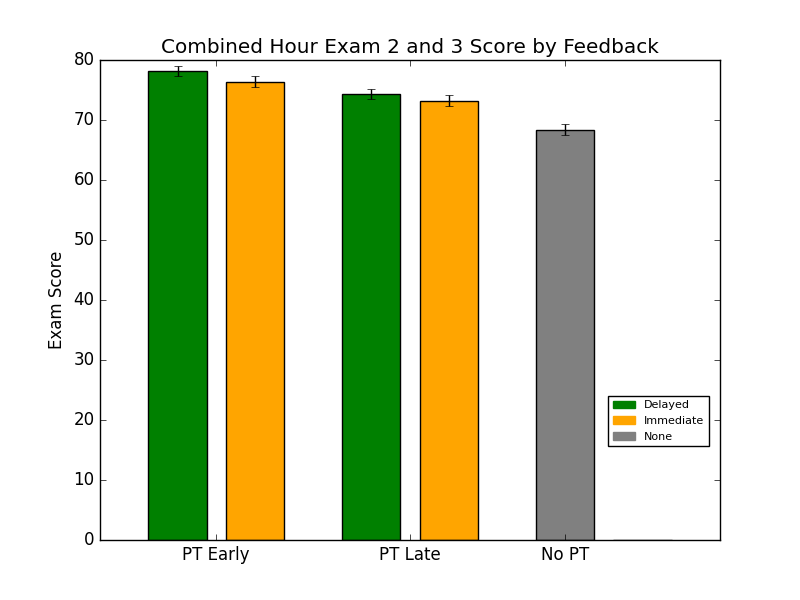
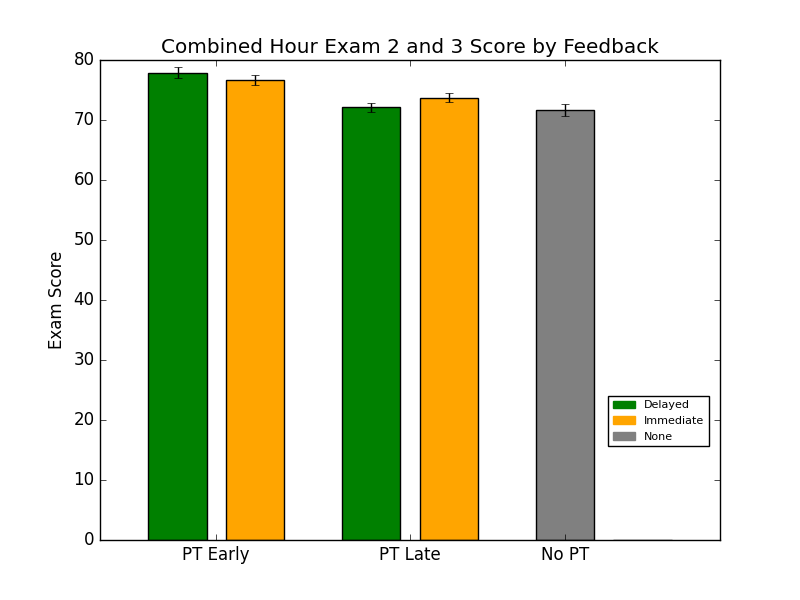
Altered hour exam graphs to new format

diff --git a/source/examscore.py b/source/examscore.py
@@ -27,19 +27,24 @@ def store_file_data(path): # Opens the CSV Data and Stores the Returns the Data 
 
 def parse_file(): # Dividing the Data into appropriate bins
 	for row in r_list:
-		if row[1] != "NULL" and row[1] != "EX": # Why are the EX's?
-			if row[8] == "NULL":
-				no_feedback_score.append(float(row[1]))
-			elif float(row[8]) <= early_time:
-				if int(row[5]) == 1:
-					delayed_feedback_early_score.append(float(row[1]))
-				else:
-					immediate_feeback_early_score.append(float(row[1]))
-			elif float(row[8]) < 0: # Sometimes students finish practice after exam time?
-				if int(row[5]) == 1:
-					delayed_feedback_late_score.append(float(row[1]))
-				else:
-					immediate_feeback_late_score.append(float(row[1]))
+		if row[5] == "NULL" or float(row[6]) == 0: # People who did not have any practice questions done
+			no_feedback_score.append(float(row[1]))
+		elif row[8] == "NULL" and float(row[6]) > 0: # People who did less than 20 questions late
+			if row[5] == "1":
+				delayed_feedback_late_score.append(float(row[1]))
+			else:
+				immediate_feeback_late_score.append(float(row[1]))
+		elif float(row[8]) <= early_time: # People who did 20 practice questions early
+			if row[5] == "1":
+				delayed_feedback_early_score.append(float(row[1]))
+			else:
+				immediate_feeback_early_score.append(float(row[1]))
+		elif float(row[8]) <= 0: # People who did 20 practice questions late
+			if row[5] == "1":
+				delayed_feedback_late_score.append(float(row[1]))
+			else:
+				immediate_feeback_late_score.append(float(row[1]))
+		# People who have questions done after the exam has finished are not included
 
 def draw_graph(name): # Drawing Hour Exam 2 Score by Feedback
 	# Calculating the Means
@@ -47,11 +52,11 @@ def draw_graph(name): # Drawing Hour Exam 2 Score by Feedback
 	immediate_means = [np.mean(immediate_feeback_early_score), np.mean(immediate_feeback_late_score)]
 	no_means = [np.mean(no_feedback_score)]
 
-	# print(delayed_means)
-	# print()
-	# print(immediate_means)
-	# print()
-	# print(no_means)
+	print(delayed_means)
+	print()
+	print(immediate_means)
+	print()
+	print(no_means)
 
 	# Calculating the Error Bars
 	delayed_errors = [stats.sem(delayed_feedback_early_score), stats.sem(delayed_feedback_late_score)]
@@ -77,7 +82,7 @@ def draw_graph(name): # Drawing Hour Exam 2 Score by Feedback
 	gray_patch = mpatches.Patch(color='gray', label='None')
 	plt.legend(bbox_to_anchor=(0.82, 0.3), loc='upper left', borderaxespad=0, handles=[green_patch, orange_patch, gray_patch], prop={"size":8})
 
-	# plt.savefig("../graphs/" + name + ".png")
+	plt.savefig("../graphs/" + name + ".png")
 	plt.show()
 
 def clear_lists():
@@ -87,24 +92,24 @@ def clear_lists():
 	immediate_feeback_early_score.clear()
 	immediate_feeback_late_score.clear()
 
-r_list = store_file_data(exam2_path)
-parse_file()
-draw_graph("Hour Exam 2 Score by Feedback")
-clear_lists()
-
-r_list = store_file_data(exam3_path)
-parse_file()
-draw_graph("Hour Exam 3 Score by Feedback")
-
 # r_list = store_file_data(exam2_path)
 # parse_file()
+# draw_graph("Hour Exam 2 Score by Feedback")
+# clear_lists()
+
 # r_list = store_file_data(exam3_path)
 # parse_file()
-# draw_graph("Combined Hour Exam 2 and 3 Score by Feedback")
+# draw_graph("Hour Exam 3 Score by Feedback")
 
-# print()
-# print(len(delayed_feedback_early_score))
-# print(len(immediate_feeback_early_score))
-# print(len(delayed_feedback_late_score))
-# print(len(immediate_feeback_late_score))
-# print(len(no_feedback_score))
+r_list = store_file_data(exam2_path)
+parse_file()
+r_list = store_file_data(exam3_path)
+parse_file()
+draw_graph("Combined Hour Exam 2 and 3 Score by Feedback")
+
+print()
+print(len(delayed_feedback_early_score))
+print(len(immediate_feeback_early_score))
+print(len(delayed_feedback_late_score))
+print(len(immediate_feeback_late_score))
+print(len(no_feedback_score))
